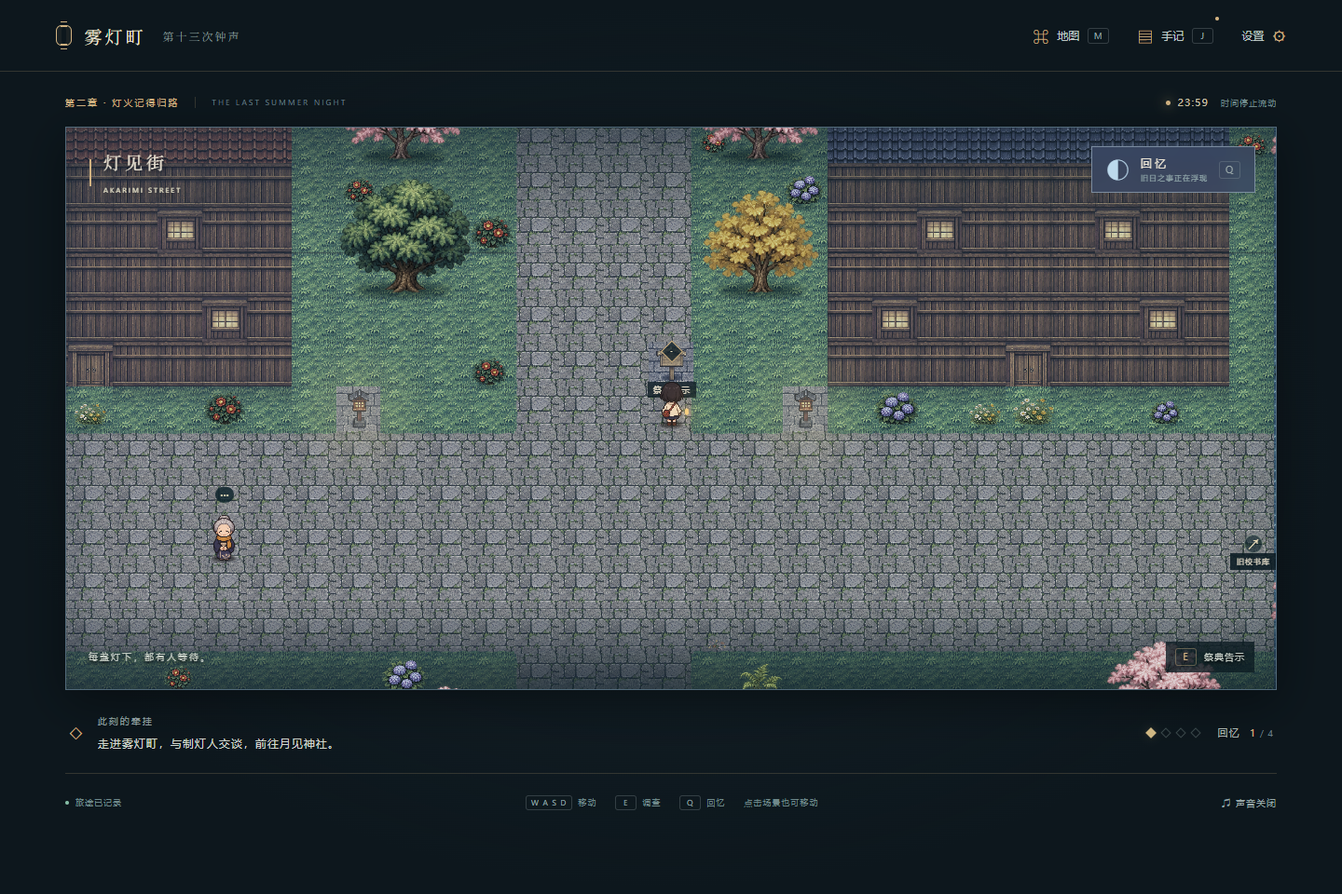
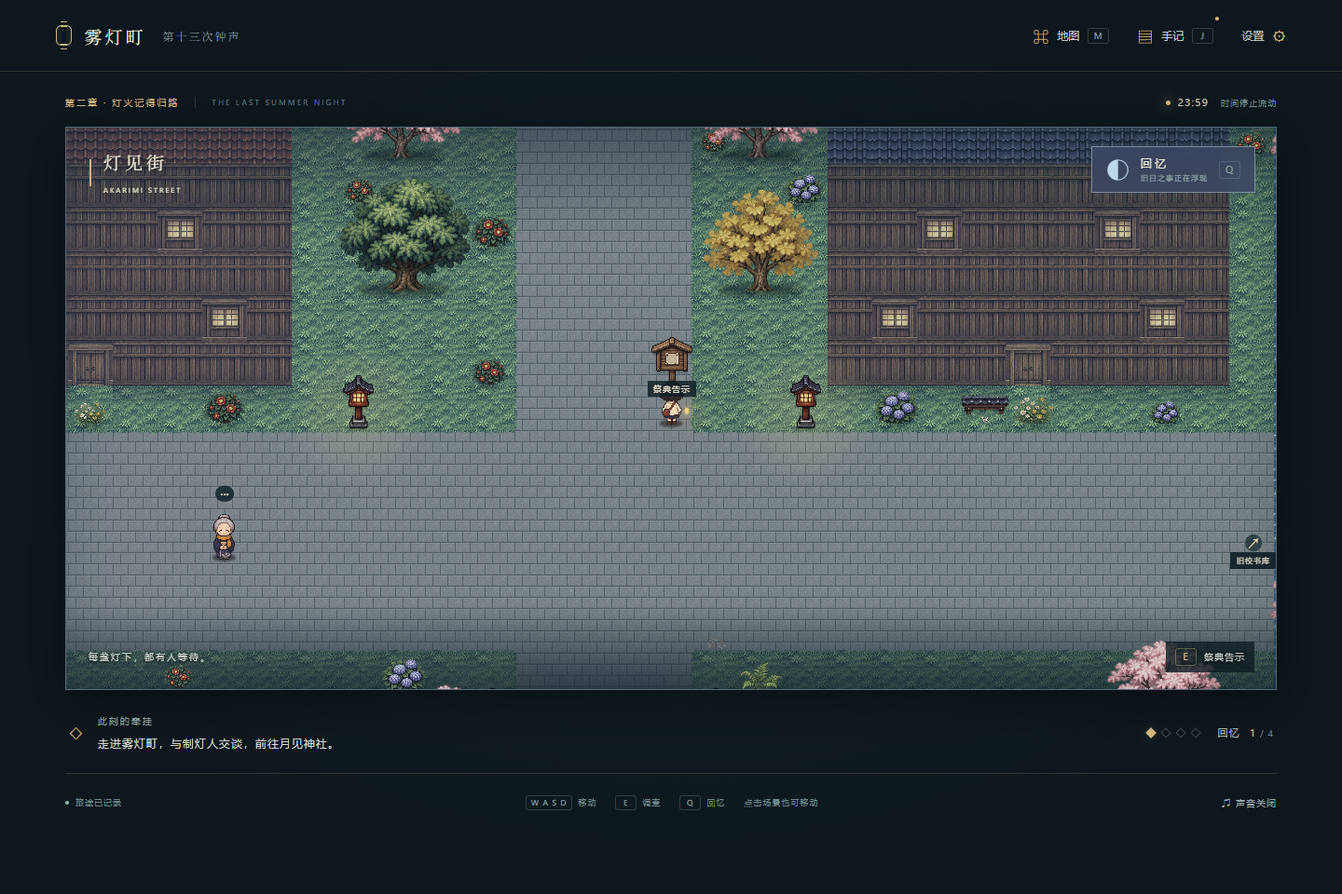
Attach investigation items to furniture and align continuous paving

Changed region(s): [[0.0312, 0.125, 0.9688, 0.7812], [0.9062, 0.125, 0.9375, 0.1875]]

diff --git a/world.js b/world.js
@@ -3,11 +3,17 @@
   'use strict';
   const image = new Image(); image.src = 'assets/tileset.png';
   const foliage = new Image(); foliage.src = 'assets/foliage-variety.png';
+  const mountedImage = new Image(); mountedImage.src = 'assets/mounted-props.png';
+  const worldProps = new Image(); worldProps.src = 'assets/world-props.png';
+  const stoneGrain = new Image(); stoneGrain.src = 'assets/stone-grain.png';
   const view = { tile: 48, x: 0, y: 0, width: 1, height: 1, zone: 'station' };
   const canvas = document.getElementById('tile-map'), ctx = canvas.getContext('2d');
   const scenery = document.createElement('div'); scenery.id = 'scenery'; scenery.setAttribute('aria-hidden','true');
   document.getElementById('world').appendChild(scenery);
+  const furniture = document.createElement('div'); furniture.id='furniture';furniture.setAttribute('aria-hidden','true');document.getElementById('world').appendChild(furniture);
   let sceneryZone = null, sceneryNodes = [];
+  let propNodes = [];
+  const pavingCache=new Map(), contextPatterns=new WeakMap();
   let dpr = 1;
   function resize() {
     const rect = document.getElementById('world').getBoundingClientRect();
@@ -20,10 +26,34 @@
   }
   function project(point) { return { x: Math.round((point.x + .5 - view.x) * view.tile), y: Math.round((point.y + .92 - view.y) * view.tile) }; }
   function unproject(x, y) { return { x: Math.floor(x / view.tile + view.x), y: Math.floor(y / view.tile + view.y) }; }
-  function texture(pen, tile, x, y, size, material) {
+  function pavingUnit(size) {
+    if(pavingCache.has(size)) return pavingCache.get(size);
+    const bw=Math.max(4,Math.round(size/3)),bh=Math.max(3,Math.round(size/4));
+    const unit=document.createElement('canvas');unit.width=bw*2;unit.height=bh*2;
+    const pen=unit.getContext('2d');pen.imageSmoothingEnabled=false;pen.fillStyle='#46534f';pen.fillRect(0,0,unit.width,unit.height);
+    for(let row=0;row<2;row++) for(let col=-1;col<=2;col++) {
+      const x=col*bw+(row%2?Math.round(bw/2):0),y=row*bh;
+      pen.fillStyle='#727b72';pen.fillRect(x+1,y+1,bw-1,bh-1);
+      if(stoneGrain.complete&&stoneGrain.naturalWidth) {
+        pen.globalAlpha=.67;
+        pen.drawImage(stoneGrain,0,0,stoneGrain.naturalWidth,stoneGrain.naturalHeight,x+1,y+1,bw-1,bh-1);pen.globalAlpha=1;
+      }
+      pen.fillStyle='rgba(224,229,211,.12)';pen.fillRect(x+1,y+1,bw-1,1);
+      pen.fillStyle='rgba(24,39,36,.16)';pen.fillRect(x+1,y+bh-1,bw-1,1);
+    }
+    pavingCache.set(size,unit);return unit;
+  }
+  function texture(pen, tile, x, y, size, material, originX=0,originY=0) {
+    if(material==='stone'&&stoneGrain.complete&&stoneGrain.naturalWidth) {
+      let patterns=contextPatterns.get(pen);if(!patterns) {patterns=new Map();contextPatterns.set(pen,patterns);}
+      if(!patterns.has(size)) patterns.set(size,pen.createPattern(pavingUnit(size),'repeat'));
+      const pattern=patterns.get(size);pattern.setTransform(new DOMMatrix().translate(-originX,-originY));
+      pen.fillStyle=pattern;pen.fillRect(x,y,size,size);return;
+    }
     const source=image, columns=8, rows=8, id=tile;
     const sw=source.naturalWidth/columns, sh=source.naturalHeight/rows;
-    pen.drawImage(source,(id%columns)*sw+1,Math.floor(id/columns)*sh+1,sw-2,sh-2,x,y,size+.5,size+.5);
+    const inset=material==='object'?1:2;
+    pen.drawImage(source,(id%columns)*sw+inset,Math.floor(id/columns)*sh+inset,sw-inset*2,sh-inset*2,x,y,size,size);
   }
   function blendEdge(map,x,y,px,py) {
     const index=y*map.w+x, material=map.materials[index], size=view.tile;
@@ -59,25 +89,38 @@
         const shadow=document.createElement('span');shadow.className='scenery-shadow';
         node.append(shadow,art);scenery.appendChild(node);return {plant,node};
       });
+      furniture.replaceChildren();
+      propNodes=map.props.map(prop=>{
+        const node=document.createElement('canvas');node.className='scene-prop';node.dataset.prop=prop.id;
+        node.width=256;node.height=256;node.style.setProperty('--prop-scale',prop.size);
+        node.style.zIndex=String(Math.round(prop.y*5)+(prop.hanging?12:7));
+        const source=prop.atlas==='world'?worldProps:mountedImage,columns=prop.atlas==='world'?4:2;
+        const paint=()=>{if(!source.naturalWidth)return;const sw=source.naturalWidth/columns,sh=source.naturalHeight/2,pen=node.getContext('2d');pen.imageSmoothingEnabled=false;pen.clearRect(0,0,256,256);pen.drawImage(source,(prop.sprite%columns)*sw+4,Math.floor(prop.sprite/columns)*sh+4,sw-8,sh-8,0,0,256,256);};
+        if(source.complete) paint();else source.addEventListener('load',paint,{once:true});
+        furniture.appendChild(node);return {prop,node};
+      });
     }
     sceneryNodes.forEach(({plant,node})=>{
       const p=project(plant),margin=plant.size*view.tile;
       node.hidden=p.x < -margin||p.x>view.width+margin||p.y < -margin||p.y>view.height+margin;
       if(!node.hidden) { node.style.left=p.x+'px';node.style.top=p.y+'px'; }
     });
+    propNodes.forEach(({prop,node})=>{const p=project(prop);node.style.left=p.x+'px';node.style.top=p.y+'px';});
   }
   function draw(zone, player, time, phase) {
     const map = root.KiriMaps.maps[zone]; view.zone = zone;
     const cols = view.width / view.tile, rows = view.height / view.tile;
     const camera = (p, span, extent) => extent < span ? -(span - extent) / 2 : Math.max(0, Math.min(extent - span, p + .5 - span / 2));
     view.x = camera(player.x, cols, map.w); view.y = camera(player.y, rows, map.h);
+    const originX=Math.round(view.x*view.tile),originY=Math.round(view.y*view.tile);
+    view.x=originX/view.tile;view.y=originY/view.tile;
     ctx.fillStyle = '#07151d'; ctx.fillRect(0, 0, view.width, view.height);
     if (!image.complete || !image.naturalWidth) return;
     for (let y = Math.max(0, Math.floor(view.y)); y < Math.min(map.h, Math.ceil(view.y + rows)); y++) {
       for (let x = Math.max(0, Math.floor(view.x)); x < Math.min(map.w, Math.ceil(view.x + cols)); x++) {
         const id = map.tiles[y * map.w + x];
-        const px = Math.round((x - view.x) * view.tile), py = Math.round((y - view.y) * view.tile);
-        texture(ctx,id,px,py,view.tile,map.materials[y*map.w+x]);
+        const px=x*view.tile-originX,py=y*view.tile-originY;
+        texture(ctx,id,px,py,view.tile,map.materials[y*map.w+x],originX,originY);
         blendEdge(map,x,y,px,py);
         fineWear(map,x,y,px,py);
         if(map.materials[y*map.w+x]!=='object'&&y>0&&[17,21,22,25,28].includes(map.tiles[(y-1)*map.w+x])) {
@@ -88,13 +131,13 @@
       }
     }
     ctx.fillStyle = phase === 'echo' ? 'rgba(59,84,123,.19)' : 'rgba(5,22,38,.22)'; ctx.fillRect(0, 0, view.width, view.height);
-    for (let y = 0; y < map.h; y++) for (let x = 0; x < map.w; x++) if (map.tiles[y * map.w + x] === 40) {
+    map.lights.forEach(({x,y})=>{
       const p = project({ x, y: y - .35 }), radius = view.tile * 1.7;
-      if (p.x < -radius || p.x > view.width + radius || p.y < -radius || p.y > view.height + radius) continue;
+      if (p.x < -radius || p.x > view.width + radius || p.y < -radius || p.y > view.height + radius) return;
       const gradient = ctx.createRadialGradient(p.x, p.y, 1, p.x, p.y, radius);
       gradient.addColorStop(0, 'rgba(255,194,93,.20)'); gradient.addColorStop(1, 'rgba(255,194,93,0)');
       ctx.fillStyle = gradient; ctx.fillRect(p.x - radius, p.y - radius, radius * 2, radius * 2);
-    }
+    });
     drawScenery(map);
   }
   function thumbnail(zone, output) {
@@ -110,6 +153,7 @@
         pen.drawImage(foliage,p.sprite%4*sw,Math.floor(p.sprite/4)*sh,sw,sh,(p.x+.5)*size-extent*.5,(p.y+.92)*size-extent*.96,extent,extent);
       });
     }
+    map.props.forEach(p=>{const source=p.atlas==='world'?worldProps:mountedImage,columns=p.atlas==='world'?4:2;if(!source.complete||!source.naturalWidth)return;const sw=source.naturalWidth/columns,sh=source.naturalHeight/2,extent=p.size*size;pen.drawImage(source,p.sprite%columns*sw+4,Math.floor(p.sprite/columns)*sh+4,sw-8,sh-8,(p.x+.5)*size-extent*.5,(p.y+.92)*size-extent*.985,extent,extent);});
   }
-  root.KiriRenderer = { view, resize, draw, project, unproject, thumbnail, assetsReady:()=>[image,foliage].every(i=>i.complete&&i.naturalWidth>0) };
+  root.KiriRenderer = { view, resize, draw, project, unproject, thumbnail, assetsReady:()=>[image,foliage,mountedImage,worldProps,stoneGrain].every(i=>i.complete&&i.naturalWidth>0) };
 })(globalThis);

diff --git a/maps.js b/maps.js
@@ -7,24 +7,30 @@
   'use strict';
   const maps = {};
   function create(id, w, h, floor, spawn) {
-    const map = { id, w, h, spawn, tiles: Array(w * h).fill(floor), solids: Array(w * h).fill(floor === 7 || floor === 15) };
+    const map = { id, w, h, floor, spawn, tiles: Array(w * h).fill(floor), solids: Array(w * h).fill(floor === 7 || floor === 15), props: [], lights: [] };
     map.put = (x, y, tile, solid = false) => { if (x >= 0 && y >= 0 && x < w && y < h) { map.tiles[y * w + x] = tile; map.solids[y * w + x] = solid; } };
     map.rect = (x, y, width, height, tile, solid = false) => { for (let r = y; r < y + height; r++) for (let c = x; c < x + width; c++) map.put(c, r, tile, solid); };
+    map.prop = (id, sprite, x, y, size, footprint = [], hanging = false) => {
+      map.props.push({id,sprite,x,y,size,hanging});
+      footprint.forEach(([dx,dy]) => { if(x+dx>=0&&x+dx<w&&y+dy>=0&&y+dy<h) map.solids[(y+dy)*w+x+dx]=true; });
+    };
     map.border = tile => { map.rect(0, 0, w, 1, tile, true); map.rect(0, h - 1, w, 1, tile, true); map.rect(0, 0, 1, h, tile, true); map.rect(w - 1, 0, 1, h, tile, true); };
     map.house = (x, y, width, height, roof = 19) => { map.rect(x, y, width, 1, roof === 18 ? 26 : 27, true); map.rect(x, y + 1, width, 1, roof, true); map.rect(x, y + 2, width, height - 2, 17, true); map.put(x + 1, y + height - 2, 29, true); map.put(x + width - 2, y + height - 2, 29, true); if(height>=6) { map.put(x+2,y+3,29,true); map.put(x+width-3,y+3,29,true); } map.put(x + Math.floor(width / 2), y + height - 1, 30, true); };
     maps[id] = map; return map;
   }
   let m = create('station', 32, 20, 11, [16, 15]); m.border(34);
   m.rect(1, 2, 30, 2, 47, true); m.rect(1, 4, 30, 1, 2); m.rect(2, 10, 28, 8, 2);
-  m.house(2, 5, 8, 5); m.put(6, 9, 31); m.put(4, 13, 42, true); m.put(12, 7, 43, true);
-  m.put(14, 7, 40, true); m.put(25, 7, 40, true); m.put(28, 10, 30, true); m.put(8, 14, 55);
+  m.house(2, 5, 8, 5); m.put(6, 9, 31); m.put(12, 7, 43, true);
+  m.put(14, 7, 40, true); m.put(25, 7, 40, true); m.put(28, 10, 30, true);
+  m.prop('photo-bench',0,4,13,2.7,[[-1,0],[0,0],[1,0]]);
   m.rect(29, 12, 2, 4, 8); [2, 5, 9, 26, 29].forEach(x => m.put(x, 18, 37, true)); m.put(20, 12, 2, true);
   m = create('town', 36, 26, 0, [5, 14]); m.border(32);
   m.rect(2, 12, 32, 5, 2); m.rect(17, 2, 4, 22, 2); m.house(3, 4, 9, 7, 18); m.house(24, 4, 9, 7);
   m.house(4, 19, 9, 5); m.house(25, 20, 8, 4, 18);
   [[3, 2], [14, 5], [22, 5], [2, 21], [31, 18], [22, 22], [15, 19]].forEach(([x, y]) => m.put(x, y, 33, true));
   [[13, 11], [23, 11], [16, 18], [21, 18]].forEach(([x, y]) => m.put(x, y, 40, true));
-  m.put(20, 10, 43, true); m.put(27, 18, 54); m.put(10, 14, 2, true); m.rect(34, 3, 1, 21, 6, true);
+  m.put(20, 10, 43, true); m.put(10, 14, 2, true); m.rect(34, 3, 1, 21, 6, true);
+  m.prop('eave-crane',3,27,11,1.55,[],true);
   m = create('shrine', 28, 24, 1, [14, 20]); m.border(34); m.rect(5, 10, 18, 12, 10);
   m.rect(13, 8, 3, 15, 2); m.house(8, 3, 12, 6, 18); m.put(14, 8, 31);
   m.rect(10, 10, 8, 1, 56, true); m.put(13, 10, 2); m.put(14, 10, 2);
@@ -33,7 +39,9 @@
   [[3, 4], [22, 4], [2, 14], [24, 14], [4, 21], [23, 21]].forEach(([x, y]) => m.put(x, y, 33, true));
   m = create('archive', 26, 22, 4, [13, 18]); m.border(15); m.rect(1, 1, 24, 2, 17, true); m.rect(2, 3, 22, 1, 21, true);
   m.rect(2, 4, 2, 14, 21, true); m.rect(22, 7, 2, 11, 21, true); m.rect(9, 7, 3, 2, 21, true); m.rect(14, 11, 3, 2, 21, true);
-  m.rect(1, 20, 24, 1, 17, true); m.put(13, 20, 31); m.put(23, 5, 61); m.put(13, 5, 49, true); m.put(7, 14, 50, true); m.put(19, 15, 51, true);
+  m.rect(1, 20, 24, 1, 17, true); m.put(13, 20, 31); m.put(23, 5, 61); m.put(13, 5, 49, true);
+  m.prop('ledger-desk',1,7,14,2.15,[[-1,0],[0,0],[1,0]]);
+  m.prop('recorder-desk',2,19,15,2.15,[[-1,0],[0,0],[1,0]]);
   m.put(6, 16, 48, true); m.put(19, 8, 48, true); m.put(12, 2, 63, true); m.put(6, 5, 40, true); m.put(20, 5, 40, true);
   m = create('tower', 24, 22, 3, [12, 18]); m.border(15); m.rect(1, 1, 22, 3, 22, true); m.put(12, 2, 63, true);
   m.rect(2, 5, 1, 13, 22, true); m.rect(21, 5, 1, 13, 22, true);
@@ -45,6 +53,19 @@
   m.rect(1, 9, 34, 4, 2); m.rect(1, 8, 34, 1, 56, true); m.rect(1, 13, 34, 1, 56, true);
   m.rect(10, 5, 3, 4, 61); m.put(11, 5, 45, true); m.put(26, 11, 2, true);
   [4, 16, 28, 33].forEach(x => { m.put(x, 8, 40, true); m.put(x, 13, 40, true); });
+  // Furniture is a transparent layer over the actual floor, never a baked floor tile.
+  const detached = {40:[0,1.3],41:[7,1.35],43:[1,1.2],45:[2,1.25],46:[3,1.2],48:[4,1.5],49:[5,1.5],53:[6,1.25]};
+  Object.values(maps).forEach(map=>{
+    map.tiles.forEach((tile,i)=>{
+      if(!detached[tile]) return;
+      const x=i%map.w,y=Math.floor(i/map.w),[sprite,size]=detached[tile];
+      const neighbors=[[0,-1],[0,1],[-1,0],[1,0]].map(([dx,dy])=>map.tiles[(y+dy)*map.w+x+dx]).filter(t=>Number.isInteger(t)&&t<15);
+      const counts=new Map();neighbors.forEach(t=>counts.set(t,(counts.get(t)||0)+1));
+      const floor=[...counts].sort((a,b)=>b[1]-a[1])[0]?.[0]??map.floor;
+      map.tiles[i]=floor;map.props.push({id:`prop-${x}-${y}`,atlas:'world',sprite,x,y,size});
+      if(tile===40) map.lights.push({x,y});
+    });
+  });
   const scenery = typeof module === 'object' && module.exports ? require('./scenery.js') : globalThis.KiriScenery;
   scenery.enrich(maps);
   function walkable(zone, x, y) { const map = maps[zone]; return !!map && Number.isInteger(x) && Number.isInteger(y) && x >= 0 && y >= 0 && x < map.w && y < map.h && !map.solids[y * map.w + x]; }

diff --git a/data.js b/data.js
@@ -5,7 +5,7 @@
       objects: [
         { id: 'ren', name: '莲', label: '站务员', x: 65, y: 58, character: 2, action: 'ren' },
         { id: 'timetable', name: '褪色的时刻表', x: 25, y: 43, action: 'date', mark: 'inspect' },
-        { id: 'photo', name: '长椅上的合照', x: 34, y: 70, phase: 'echo', action: 'photo', mark: 'memory' },
+        { id: 'photo', name: '长椅上的合照', x: 34, y: 70, phase: 'echo', action: 'photo', mark: 'memory', support: 'photo-bench', focusOffset: { x: .78, y: -.45 } },
         { id: 'station-lock', name: '检票闸门', x: 83, y: 53, action: 'puzzle-station', mark: 'puzzle' },
         { id: 'to-town', name: '前往灯见街', x: 90, y: 74, action: 'go-town', mark: 'exit' }
       ] },
@@ -13,7 +13,7 @@
       objects: [
         { id: 'nagi', name: '凪婆婆', label: '制灯人', x: 35, y: 57, character: 3, action: 'nagi' },
         { id: 'notice', name: '祭典告示', x: 66, y: 43, action: 'notice', mark: 'inspect' },
-        { id: 'crane', name: '檐下的纸鹤', x: 68, y: 72, phase: 'echo', action: 'crane', mark: 'memory' },
+        { id: 'crane', name: '檐下的纸鹤', x: 68, y: 72, phase: 'echo', action: 'crane', mark: 'memory', support: 'eave-crane', focusOffset: { x: 0, y: -.17 } },
         { id: 'to-station', name: '雾灯车站', x: 12, y: 72, action: 'go-station', mark: 'exit' },
         { id: 'to-shrine', name: '月见神社', x: 72, y: 34, action: 'go-shrine', mark: 'exit' },
         { id: 'to-archive', name: '旧校书库', x: 90, y: 58, action: 'go-archive', mark: 'exit' },
@@ -29,8 +29,8 @@
     archive: { name: '旧校书库', reading: 'THE FORGOTTEN ARCHIVE', sub: '不是每一个空白，都意味着遗忘。', atlas: [1, 1], spawn: [50, 79], links: ['town', 'tower'],
       objects: [
         { id: 'records', name: '祭典记录柜', x: 50, y: 48, action: 'puzzle-archive', mark: 'puzzle' },
-        { id: 'ledger', name: '值日生的手记', x: 25, y: 58, action: 'chronology', mark: 'inspect' },
-        { id: 'tape', name: '旧录音机', x: 75, y: 63, phase: 'echo', action: 'tape', mark: 'memory' },
+        { id: 'ledger', name: '值日生的手记', x: 25, y: 58, action: 'chronology', mark: 'inspect', support: 'ledger-desk', focusOffset: { x: .2, y: -.72 } },
+        { id: 'tape', name: '旧录音机', x: 75, y: 63, phase: 'echo', action: 'tape', mark: 'memory', support: 'recorder-desk', focusOffset: { x: -.36, y: -.72 } },
         { id: 'to-tower', name: '通往钟楼', x: 85, y: 56, action: 'go-tower', mark: 'exit' },
         { id: 'to-town', name: '返回灯见街', x: 50, y: 84, action: 'go-town', mark: 'exit' }
       ] },
@@ -69,8 +69,8 @@
     dawn: { number: 'IV', name: '与你重逢的黎明', en: 'UNTIL WE MEET AT DAWN', color: '#f3cf95', lead: '这一次，你终于叫出了她的名字。', paragraphs: ['「栞。」你把四段回忆写进灯纸。你记得她的等待、愿望、恐惧，也记得她想活下去的真心。你终于不再只把她当作一个救了所有人的传说。', '莲和凪婆婆从街的另一端走来。每一盏写着姓名的灯，都接住了一小片夜色。没有人需要独自留在这里。第十三次钟声响了。', '姐姐握了握你的手。「这一次，不用在原地等我。去看看以后的春天吧。」', '七年后第一次日出，照进真正的雾灯车站。澪把红丝带系在行李上，走向正在醒来的小镇。那张合照里，姐姐终于笑得不再勉强。'], after: '我们会告别，但我们不会失去彼此。' }
   };
   const positions = {
-    station: { ren: [20,12], timetable: [12,7], photo: [8,14], 'station-lock': [28,10], 'to-town': [30,14] },
-    town: { nagi: [10,14], notice: [20,10], crane: [27,18], 'to-station': [2,14], 'to-shrine': [18,3], 'to-archive': [33,14], 'to-river': [19,23] },
+    station: { ren: [20,12], timetable: [12,7], photo: [4,13], 'station-lock': [28,10], 'to-town': [30,14] },
+    town: { nagi: [10,14], notice: [20,10], crane: [27,11], 'to-station': [2,14], 'to-shrine': [18,3], 'to-archive': [33,14], 'to-river': [19,23] },
     shrine: { lanterns: [14,13], mural: [6,12], 'shrine-shiori': [19,15], 'to-town': [14,22] },
     archive: { records: [13,5], ledger: [7,14], tape: [19,15], 'to-tower': [23,5], 'to-town': [13,20] },
     tower: { gears: [12,7], marks: [6,12], 'tower-shiori': [17,13], 'to-archive': [6,20], 'to-river': [20,18] },

diff --git a/style.css b/style.css
@@ -47,3 +47,22 @@
 .scenery-sprite.tree .scenery-shadow{height:10%;left:15%;right:15%;bottom:2%;background:#06151988;filter:blur(4px)}
 .world.echo .scenery-art{filter:brightness(.92) saturate(.57) hue-rotate(8deg)}
 .scenery-sprite.leaves .scenery-art{opacity:.4}
+
+#furniture{pointer-events:none}
+.scene-prop{position:absolute;width:calc(var(--tile-size)*var(--prop-scale));height:calc(var(--tile-size)*var(--prop-scale));transform:translate(-50%,-98.5%);pointer-events:none;image-rendering:pixelated;filter:brightness(.87) saturate(.86) drop-shadow(0 2px 1px #07191c40)}
+.world.echo .scene-prop{filter:brightness(.96) saturate(.65) hue-rotate(6deg) drop-shadow(0 2px 1px #07191c40)}
+
+/* Quiet interaction glints replace the large diamond badges. */
+.object.inspect .object-marker,.object.puzzle .object-marker,.object.memory .object-marker{width:7px;height:7px;border:0;border-radius:0;background:none;box-shadow:none;color:#ffe7a8;transform:translateX(-50%);animation:interaction-glint 2.15s ease-in-out infinite}
+.object.memory .object-marker{color:#dcf2ff}
+.object.inspect .object-marker>span,.object.puzzle .object-marker>span,.object.memory .object-marker>span{display:none}
+.object.inspect .object-marker:before,.object.puzzle .object-marker:before,.object.memory .object-marker:before,.object.inspect .object-marker:after,.object.puzzle .object-marker:after,.object.memory .object-marker:after{content:"";position:absolute;left:50%;top:50%;background:currentColor;transform:translate(-50%,-50%);box-shadow:0 0 4px currentColor}
+.object.inspect .object-marker:before,.object.puzzle .object-marker:before,.object.memory .object-marker:before{width:1px;height:7px}
+.object.inspect .object-marker:after,.object.puzzle .object-marker:after,.object.memory .object-marker:after{width:7px;height:1px}
+.object.mounted .object-marker{bottom:0;transform:translate(-50%,50%)}
+.object.mounted .object-label{bottom:14px}
+.object.collected .object-marker,.object.solved .object-marker{animation:none;opacity:0;filter:none}
+.object.read .object-marker{animation:none;opacity:.25;filter:none}
+.object.inspect:hover .object-marker,.object.puzzle:hover .object-marker,.object.memory:hover .object-marker,.object.inspect.near .object-marker,.object.puzzle.near .object-marker,.object.memory.near .object-marker{border:0;background:none;box-shadow:none}
+@keyframes interaction-glint{0%,100%{opacity:.28;filter:brightness(.85)}45%,60%{opacity:.95;filter:brightness(1.18)}}
+@media(prefers-reduced-motion:reduce){.object.inspect .object-marker,.object.puzzle .object-marker,.object.memory .object-marker{animation:none;opacity:.75}.object.collected .object-marker,.object.solved .object-marker{opacity:0}.object.read .object-marker{opacity:.25}}

diff --git a/game.js b/game.js
@@ -82,13 +82,14 @@
     const container = $('objects'); container.replaceChildren();
     visibleObjects().forEach(obj => {
       const el = document.createElement('button'); el.type = 'button';
-      el.className = `object ${obj.character !== undefined ? 'character' : obj.mark || ''} ${obj.phase === 'echo' ? 'echo-actor' : ''}`;
+      el.className = `object ${obj.character !== undefined ? 'character' : obj.mark || ''} ${obj.phase === 'echo' ? 'echo-actor' : ''} ${obj.support ? 'mounted' : ''}`;
       el.id = `object-${obj.id}`; el.dataset.tileX = obj.x; el.dataset.tileY = obj.y;
       el.setAttribute('aria-label', obj.name); el.dataset.object = obj.id;
       let solved = false;
       if (obj.action.startsWith('puzzle-')) solved = state.solved.includes(obj.action.slice(7));
       el.classList.toggle('solved', solved);
       el.classList.toggle('collected', state.memories.includes(obj.action));
+      el.classList.toggle('read', state.clues.includes(obj.action));
       const marker = solved ? '✓' : (obj.character !== undefined ? '···' : obj.mark === 'memory' ? '✧' : obj.mark === 'exit' ? '↗' : obj.mark === 'puzzle' ? '◇' : '·');
       el.innerHTML = `${obj.character !== undefined ? `<div class="actor"><div class="actor-shadow"></div><div class="sprite" style="background-position:${obj.character * 100 / 3}% 0%"></div></div>` : ''}<span class="object-marker"><span>${marker}</span></span><span class="object-label">${obj.name}</span>${obj.label ? `<span class="object-detail">${obj.label}</span>` : ''}`;
       el.addEventListener('click', e => { e.stopPropagation(); approach(obj); }); container.appendChild(el);
@@ -106,8 +107,8 @@
     if (walking !== lastWalk) player.classList.toggle('walking', walking && !reducedMotion);
     lastWalk = walking;
     visibleObjects().forEach(obj => {
-      const el = $(`object-${obj.id}`), position = R.project(obj);
-      if (el) { el.style.left = position.x + 'px'; el.style.top = position.y + 'px'; el.style.zIndex = String(Math.round(obj.y * 5) + (obj.character !== undefined ? 10 : 3)); }
+      const el = $(`object-${obj.id}`), position = R.project({x:obj.x+(obj.focusOffset?.x||0),y:obj.y+(obj.focusOffset?.y||0)});
+      if (el) { el.style.left = position.x + 'px'; el.style.top = position.y + 'px'; el.style.zIndex = String(Math.round(obj.y * 5) + (obj.character !== undefined ? 10 : 16)); }
     });
     if (target) showClickTarget(target);
   }

diff --git a/scenery.js b/scenery.js
@@ -10,8 +10,8 @@
     n = Math.imul(n ^ n >>> 13, 1274126177); return ((n ^ n >>> 16) >>> 0) / 4294967296;
   };
   const reserved = {
-    station: [[16,15],[20,12],[12,7],[8,14],[28,10],[30,14]],
-    town: [[5,14],[10,14],[20,10],[27,18],[2,14],[18,3],[33,14],[19,23]],
+    station: [[16,15],[20,12],[12,7],[4,13],[3,13],[5,13],[28,10],[30,14]],
+    town: [[5,14],[10,14],[20,10],[27,11],[2,14],[18,3],[33,14],[19,23]],
     shrine: [[14,20],[14,13],[6,12],[19,15],[14,22]],
     archive: [[13,18],[13,5],[7,14],[19,15],[23,5],[13,20]],
     tower: [[12,18],[12,7],[6,12],[17,13],[6,20],[20,18]],

diff --git a/docs/ART-PROMPTS.md b/docs/ART-PROMPTS.md
@@ -13,6 +13,32 @@
 | `assets/tileset.png` | 8 列 × 8 行的经典俯视 2D 地块；草地、道路、屋顶、墙体、水面和家具；实际游戏地图由地块拼成 |
 | `assets/terrain-variety.png` | 制作过程保留的 32 格地面变体；正式地图改为统一使用 tileset.png 同材质底纹，不混铺此图 |
 | `assets/foliage-variety.png` | 新增 4 列 × 4 行透明植被：8 种乔木 / 竹丛，绣球、野花、山茶、蕨类、芦苇、苔石、盆栽与落叶 |
+| `assets/mounted-props.png` | 2 × 2 透明组合物件：长椅与照片、书桌与手记、书桌与录音机、屋檐与悬挂纸鹤 |
+| `assets/world-props.png` | 4 × 2 透明场景物件：灯、告示、石碑、齿轮、桌、记录柜、钟、神龛；没有附带地砖底块 |
+| `assets/stone-grain.png` | 统一石材颗粒底纹；由地图坐标上的连续砖缝结构取样，避免格子接缝错位 |
+
+## 物件承载与连续砖缝 · 2026-11-16
+
+以下素材使用内置 image_gen 生成。透明组合物件将小物件真正放在家具上；透明单体物件消除了烘焙地面方块。石材底纹只有均匀颗粒，铺砖结构由游戏按世界坐标连续绘制，平均色调与砖缝尺寸保持一致。
+
+### mounted-props.png
+
+```
+Use case: stylized-concept. Asset type: transparent 2x2 furniture-and-object sprite atlas for an existing classic 2D top-down Japanese puzzle RPG. Input image is STYLE REFERENCE ONLY for palette and 16-bit pixel clusters. Create a new EXACT 2 columns x 2 rows grid of equal square cells, no gutters, no labels. True transparent background. Every complete furniture assembly centered horizontally within its own cell, feet / lower edge at 90 percent down the cell, generous transparent space above, original muted wood brown and cool navy, crisp restrained pixel art, orthographic overhead RPG camera consistent with reference, no perspective scene, NO floor rectangles, NO ground tiles, NO cast shadow outside sprite. Top left: a wide worn Japanese railway wooden bench, THREE seats, seen from above/front, warm horizontal wooden slats and dark metal legs, with a TINY postcard-sized vintage photograph resting flat on the RIGHT end of the seat. Photograph no more than one eighth bench width, a small pale rectangle, no standing photo frame, no object on the ground. Top right: an old wooden school writing desk, seen overhead, with an OPEN HANDWRITTEN LEDGER lying FLAT on the desktop and two stacked books along its upper left edge, visible wooden table legs. Bottom left: a matching old wooden school writing desk with a compact CASSETTE RECORDER resting FLAT on the desktop, a short coiled cable and one closed book beside it. Bottom right: a short dark Japanese wooden eave beam with a tiny white origami crane hanging BELOW it by a slender red thread, the beam and crane together form one complete assembly, viewed as a classic RPG prop; no surrounding wall, no floor, tiny crane rather than huge sculpture. All four assemblies fit entirely in their square cells. Bench and desks about 85 percent cell width, sprite base at same 90 percent baseline. No letters, no readable words, no watermark, no characters.
+```
+
+### stone-grain.png
+
+```
+Use case: stylized-concept. Asset type: neutral stone MATERIAL texture for a classic 2D top-down RPG renderer. Input image is a STYLE and COLOR REFERENCE ONLY. Create one square full-bleed texture of cool medium-grey, slightly moss-grey aged granite surface with very fine restrained 16-bit pixel-art grain. This texture will be sampled inside individually drawn paving stones, so it must contain NO brick pattern, NO mortar, NO joints, NO grid, NO tile borders and NO separate stones. Uniform medium grey across the entire canvas, small low-contrast mineral speckles, tiny barely visible wear, pixel clusters no larger than 2-4 source pixels. Matte and evenly lit. Keep ALL regions exactly the same average brightness and hue; no dark patches, no light patches, no gradients, no vignetting, no moss clumps, no cracks, no bevels, no 3D lighting. Palette neutral cool desaturated grey with a very slight green tint matching the existing stone paving reference, not blue, not brown. A quiet repeatable low-contrast surface material, not a stone photograph or an illustration. No objects, no text, no watermark.
+```
+
+### world-props.png
+
+```
+Use case: stylized-concept. Asset type: transparent object sprite atlas for an existing classic 2D top-down Japanese puzzle RPG. Reference image is ONLY for style, color and object identity. Create exactly FOUR columns by TWO rows, eight equal square cells, no gutters, no grid lines, no labels. Each cell contains one COMPLETE isolated prop with true transparent background and NO floor, NO stone paving rectangle, NO ground patch, no cast shadow outside sprite. Crisp 16-bit pixel-art clusters matching the reference. Restrained dark wood, navy brass, warm amber lighting; classic overhead RPG perspective, not isometric. Props centered horizontally, all bases at 94% down their square cell. Row1 columns1-4: Japanese red paper lantern with warm golden light mounted on a short dark stone pedestal; simple wooden village noticeboard with a tiny blank faded paper pinned to it; a small weathered stone memorial upright slab on a short base with unreadable worn engravings; a compact antique brass clockwork gear assembly standing on a small dark wooden support. Row2 columns1-4: simple old wooden writing table with empty desktop; an old wooden records CABINET with drawers and a small keyhole, not a treasure chest; small upright wooden pendulum floor clock with tiny pale clock face; small wooden Japanese shrine altar with tiny offering bowl. Keep every sprite entirely inside its individual square cell with transparent margins. The objects occupy central 65-80% of cell. Do not include loose items in the transparent margins. NO background surfaces, NO tile borders, NO text, NO characters, NO watermark.
+```
+
 
 ## 场景丰富化 · 2026-11-16
 

diff --git a/docs/QA.md b/docs/QA.md
@@ -4,7 +4,7 @@
 
 ## 核心规则
 
-`npm test`：11 项检查通过。
+`npm test`：12 项检查通过。
 
 验证了章节先决条件、禁止跳关、错误答案不改变进度、四种机关答案、联动齿轮可解性、回忆重复调查、四种结局条件、存档序列化、损坏存档恢复，以及格子地图中的墙体、书架、水面碰撞。逐一检查了六张地图中的每个人物、机关、回忆、线索与出口，确保均存在从出生点出发、不穿过障碍的相邻格路径。
 
@@ -49,3 +49,11 @@
 依据反馈收敛了地面变化：同一地图的同类地面统一使用一张底纹，石板保持相同底色、纹理比例与砖缝排列，不再随机混铺整块变体。地面细节仅为稀疏的小磨损、细窄草苔边缘与极少量半透明落叶。
 
 新增预览：`preview-station.png`、`preview-shrine.png`、`preview-archive.png`、`preview-river.png`。原有街道、钟楼和手机预览同步更新。
+
+## 物件与铺贴复验
+
+照片、手记、录音机与纸鹤均验证了家具依附关系。对应碰撞、相邻调查、回忆收集与四种结局再次通过浏览器检查。
+
+石板改用统一的石材颗粒和按地图坐标连续铺设的砖缝。验证了多个地图格子边界上的砖缝像素。通用场景物件改为透明图层，去除与现场不一致的方形地面底块。
+
+未调查物件的十字提示尺寸为 7 像素，具有明灭动画；回忆收集后停止闪动。新增 `preview-photo-detail.png`，展示长椅座面上的照片与小型调查光点。

diff --git a/docs/OBJECTS-AND-PAVING.md b/docs/OBJECTS-AND-PAVING.md
@@ -1,0 +1,21 @@
+# 物件与铺砖修正
+
+## 摆放
+
+- 车站照片放在原长椅右侧座面上，并将调查位置移到长椅。照片不再独立占据地面格子。
+- 书库手记和录音机各自放在书桌上；桌面与物件使用完整透明组合图。
+- 纸鹤移到右侧民居屋檐，以红线悬挂。
+- 灯、告示、石碑、齿轮等使用透明单体图，不再附带一块与现场地面不同的底纹。
+- 家具碰撞与人物前后遮挡同步，所有剧情物件仍能从相邻格调查。
+
+## 地砖
+
+原来的图集地砖四边不完全匹配，逐格重新取图会令砖缝在格子边缘断开。现在保留统一石材色调，使用 Image-gen 生成的均匀颗粒，在世界坐标上连续铺设错缝砖。镜头以整像素移动；去掉裁切缩边和半像素铺盖，地图格子不再决定砖缝的起点。
+
+## 提示
+
+调查、机关和回忆使用 7 像素十字光点，缓慢明灭。名称在靠近或悬停时显示。已找回回忆、已解开机关停止闪烁，读过的线索降低亮度；减少动态效果时使用静止光点。
+
+## 检查
+
+核心检查覆盖家具承载位置与地图可达性。浏览器检查实际砖缝在多个格子边界处的像素连续性、光点尺寸与状态变化，并重新经过完整故事与四个结局。

diff --git a/README.md b/README.md
@@ -36,6 +36,10 @@ npm start
 
 手机和触屏设备支持点击移动及屏幕方向键。游戏提供三层递进提示，试错没有惩罚；引灯可无限次使用。
 
+可调查物件带有细小的闪动十字光点，靠近或悬停时显示名称。已找回的回忆和已解开的机关会停止闪动。照片、手记与录音机分别放在长椅和书桌上，纸鹤悬挂在民居屋檐下。
+
+石板砖缝按地图坐标连续铺设，跨越地图格子和镜头移动时保持对齐。灯、告示和家具使用透明图层，地面底色不会因摆放物件而变成另一块材质。
+
 ## 旅程中的内容
 
 - **六处场景**：雾灯车站、灯见街、月见神社、旧校书库、十三刻钟楼、渡灯桥。

diff --git a/docs/WALKTHROUGH.md b/docs/WALKTHROUGH.md
@@ -23,8 +23,8 @@
 
 | 回忆 | 地点 | 物件 |
 | --- | --- | --- |
-| 合照 | 雾灯车站 | 长椅上的合照，场景左下 |
-| 纸鹤 | 灯见街 | 檐下的纸鹤，场景右下 |
+| 合照 | 雾灯车站 | 左侧长椅右端座面上的小照片 |
+| 纸鹤 | 灯见街 | 右侧民居屋檐下悬挂的纸鹤 |
 | 录音 | 旧校书库 | 旧录音机，场景右侧 |
 | 姓名 | 渡灯桥 | 桥边的姓名碑，场景左上 |
 
